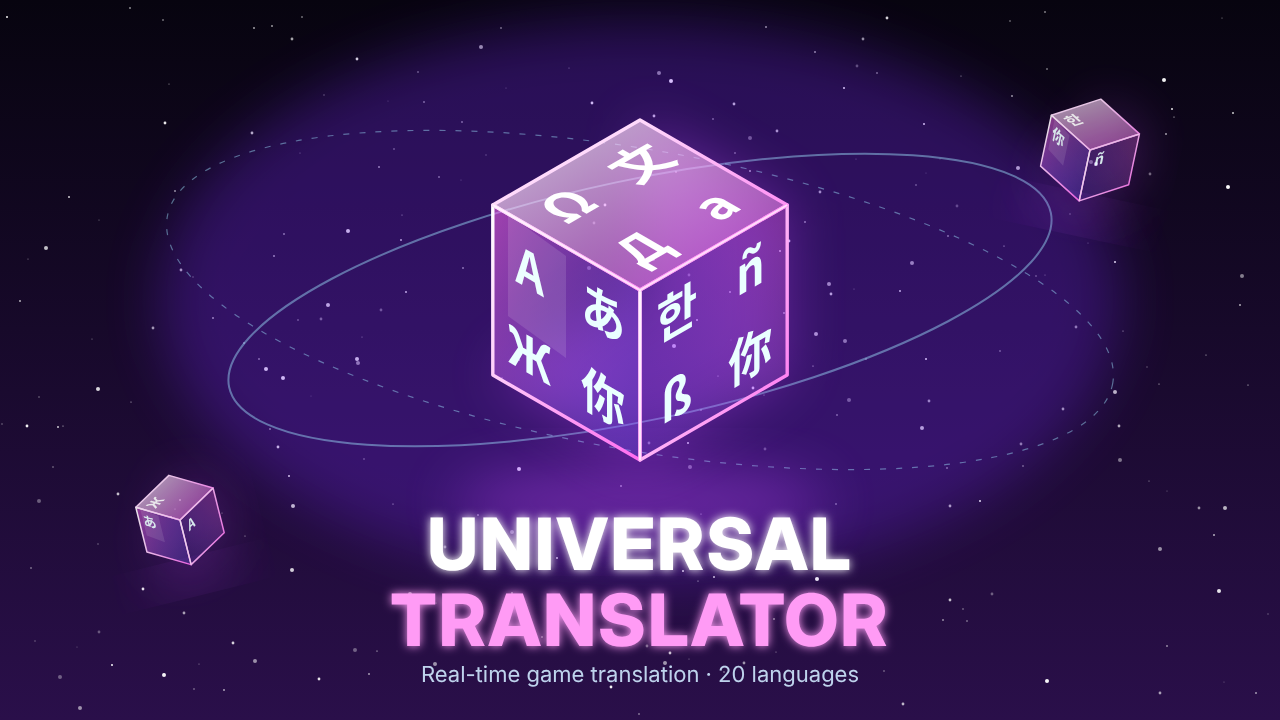
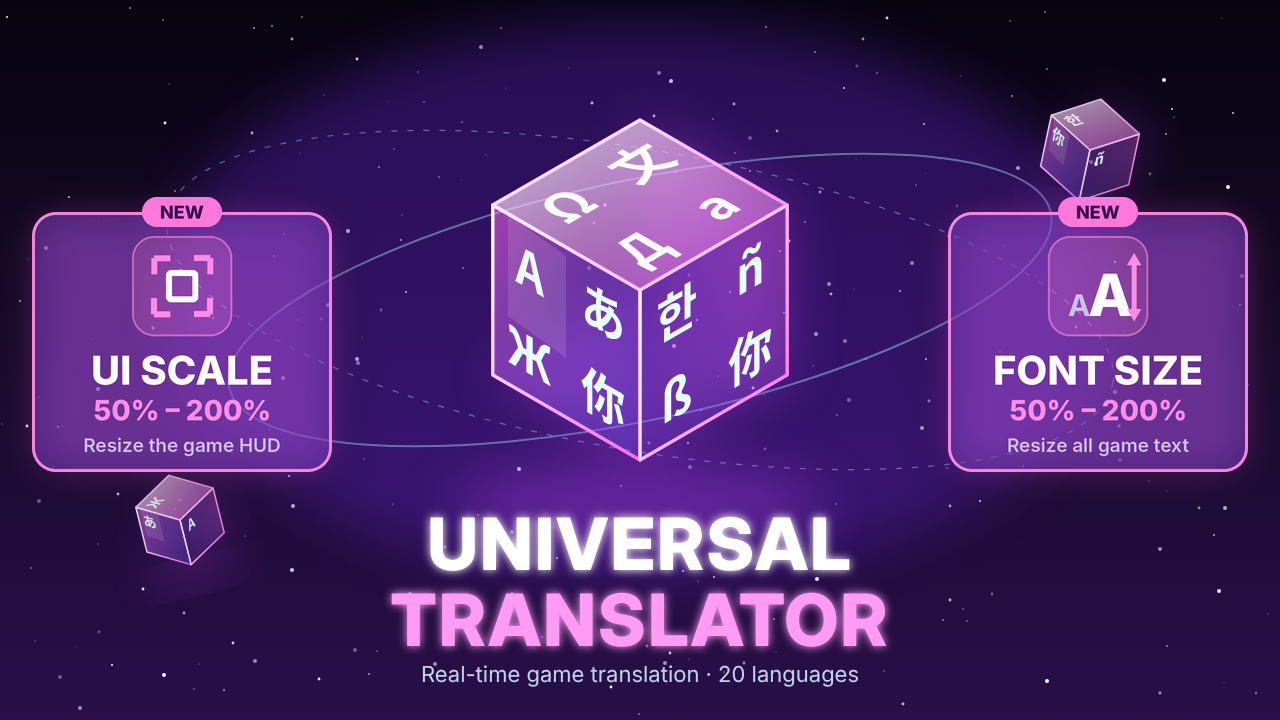
Imagem da Workshop: cartoes UI SCALE e FONT SIZE nas laterais
Claude-Session: https://claude.ai/code/session_01E8PmdM8L7dKejM3BnMWAJZ

Changed region(s): [[0.7188, 0.275, 1.0, 0.6722], [0.0, 0.275, 0.2812, 0.6722]]

diff --git a/ferramentas/gerar_preview.py b/ferramentas/gerar_preview.py
@@ -1,0 +1,63 @@
+# Gera modelo/Manifest/preview.png (imagem da Workshop): a arte base (ferramentas/logos/preview-base.png)
+# com os cartoes "UI SCALE" e "FONT SIZE" nas laterais. Uso: python ferramentas/gerar_preview.py
+# Precisa da fonte Inter (Google Fonts); troque a pasta F se ela estiver em outro lugar.
+import os, sys
+from PIL import Image, ImageDraw, ImageFont, ImageFilter
+RAIZ = os.path.dirname(os.path.dirname(os.path.abspath(__file__)))
+src = os.path.join(RAIZ, "ferramentas", "logos", "preview-base.png")
+out = os.path.join(RAIZ, "modelo", "Manifest", "preview.png")
+base = Image.open(src).convert("RGBA")
+W, H = base.size
+S = 3  # supersample
+F = "/usr/share/fonts/opentype/inter/"
+def fnt(n, s): return ImageFont.truetype(F + n, s * S)
+ROSA = (255, 140, 230); BRANCO = (255, 255, 255); LILAS = (205, 190, 240)
+
+def cartao(x, y, w, h, icone, titulo, sub, desc):
+    glow = Image.new("RGBA", (W, H), (0, 0, 0, 0))
+    ImageDraw.Draw(glow).rounded_rectangle((x - 8, y - 8, x + w + 8, y + h + 8), 30, fill=(230, 90, 220, 80))
+    glow = glow.filter(ImageFilter.GaussianBlur(22))
+    base.alpha_composite(glow)
+    L = Image.new("RGBA", (w * S, h * S), (0, 0, 0, 0))
+    d = ImageDraw.Draw(L)
+    d.rounded_rectangle((0, 0, w * S - 1, h * S - 1), 24 * S, fill=(120, 60, 190, 130), outline=ROSA + (240,), width=3 * S)
+    ic = 100
+    ix = (w - ic) // 2
+    d.rounded_rectangle((ix * S, 24 * S, (ix + ic) * S, (24 + ic) * S), 22 * S, fill=(200, 110, 240, 95), outline=ROSA + (170,), width=2 * S)
+    icone(d, ix * S, 24 * S, ic * S)
+    cx = w * S / 2
+    d.text((cx, 158 * S), titulo, font=fnt("Inter-ExtraBold.otf", 40), fill=BRANCO, anchor="mm")
+    d.text((cx, 198 * S), sub, font=fnt("Inter-ExtraBold.otf", 28), fill=ROSA, anchor="mm")
+    d.text((cx, 233 * S), desc, font=fnt("Inter-SemiBold.otf", 19), fill=LILAS, anchor="mm")
+    L = L.resize((w, h), Image.LANCZOS)
+    base.alpha_composite(L, (x, y))
+    tw, th = 80, 30
+    E = Image.new("RGBA", (tw * S, th * S), (0, 0, 0, 0))
+    de = ImageDraw.Draw(E)
+    de.rounded_rectangle((0, 0, tw * S - 1, th * S - 1), 15 * S, fill=(255, 120, 220, 255))
+    de.text((tw * S / 2, th * S / 2), "NEW", font=fnt("Inter-ExtraBold.otf", 18), fill=(60, 10, 80), anchor="mm")
+    E = E.resize((tw, th), Image.LANCZOS)
+    base.alpha_composite(E, (x + (w - tw) // 2, y - th // 2))
+
+def ic_ui(d, x, y, t):
+    # janela com setas de expandir nos cantos
+    m = t * 0.22; lw = int(t * 0.06)
+    a, b = x + m, y + m; c, e = x + t - m, y + t - m
+    d.rounded_rectangle((a + t*0.12, b + t*0.12, c - t*0.12, e - t*0.12), int(t*0.05), outline=BRANCO, width=lw)
+    k = t * 0.16
+    for (px, py, sx, sy) in ((a, b, 1, 1), (c, b, -1, 1), (a, e, 1, -1), (c, e, -1, -1)):
+        d.line((px, py, px + sx * k, py), fill=ROSA, width=lw)
+        d.line((px, py, px, py + sy * k), fill=ROSA, width=lw)
+
+def ic_fonte(d, x, y, t):
+    d.text((x + t * 0.20, y + t * 0.80), "A", font=ImageFont.truetype(F + "Inter-Bold.otf", int(t * 0.30)), fill=LILAS, anchor="ls")
+    d.text((x + t * 0.40, y + t * 0.80), "A", font=ImageFont.truetype(F + "Inter-ExtraBold.otf", int(t * 0.58)), fill=BRANCO, anchor="ls")
+    lw = int(t * 0.05); ax = x + t * 0.86
+    d.line((ax, y + t * 0.24, ax, y + t * 0.78), fill=ROSA, width=lw)
+    d.polygon([(ax, y + t*0.17), (ax - t*0.07, y + t*0.29), (ax + t*0.07, y + t*0.29)], fill=ROSA)
+    d.polygon([(ax, y + t*0.85), (ax - t*0.07, y + t*0.73), (ax + t*0.07, y + t*0.73)], fill=ROSA)
+
+w, h = 300, 260
+cartao(32, 212, w, h, ic_ui, "UI SCALE", "50% – 200%", "Resize the game HUD")
+cartao(W - 32 - w, 212, w, h, ic_fonte, "FONT SIZE", "50% – 200%", "Resize all game text")
+base.convert("RGB").save(out, optimize=True)
